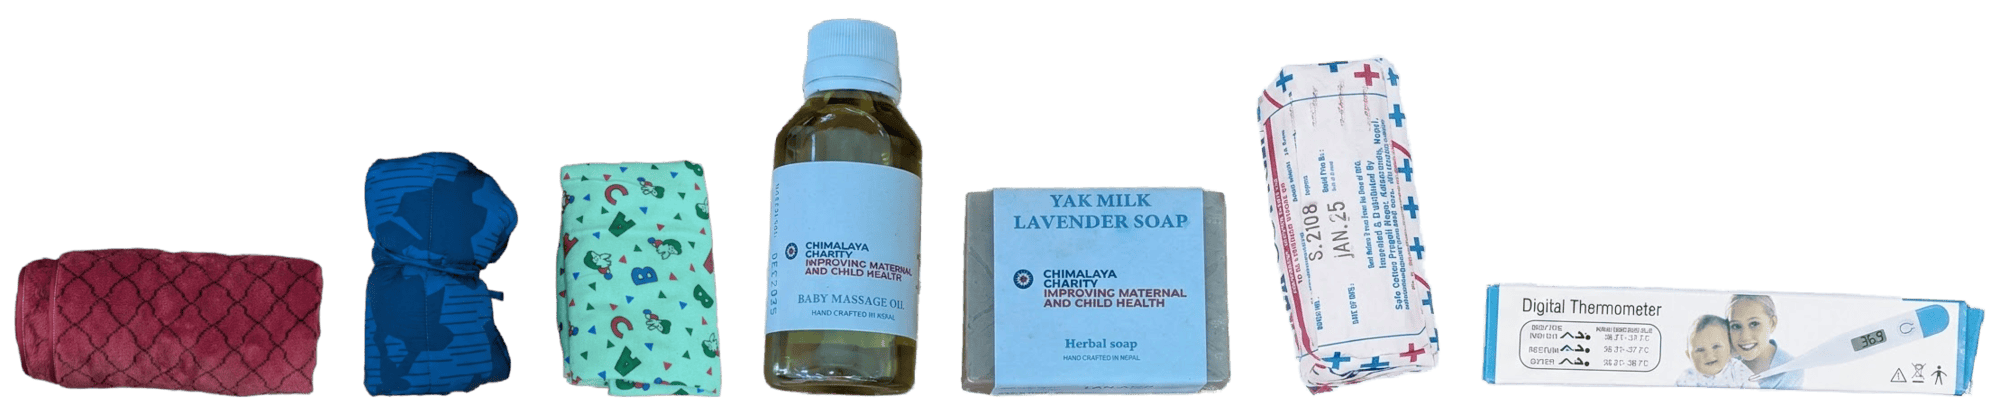
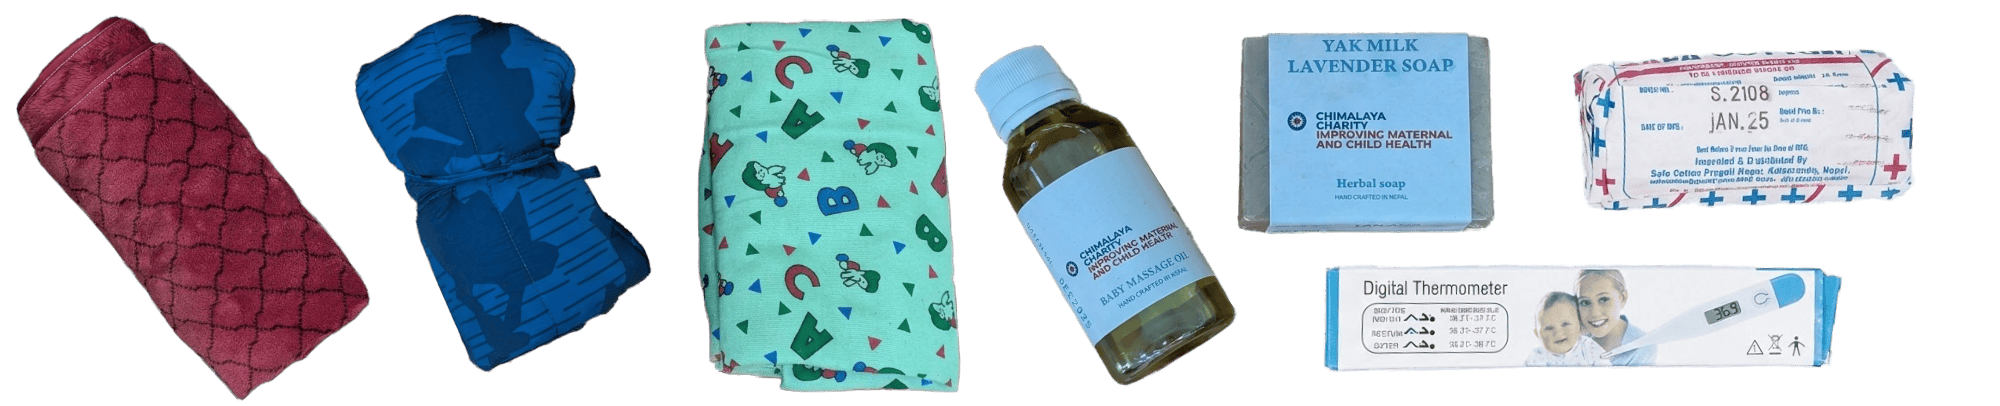
Use the updated bag contents photograph
Replaces the strip with the reworked row: cleaner cutouts, the textiles at a
sensible size, and the thermometer box tucked under the cotton wool. Same
2000x406 proportions, so it still runs full width on page three.

The new separated cutouts are named red_towel, changing_mat and
reusable_diapers, which corrects the document: those items were described as
a blanket and cloth nappies, guessed from the photographs.

diff --git a/documents/assets/originals/README.md b/documents/assets/originals/README.md
@@ -13,6 +13,10 @@ new.
 | `bag-contents-soap-and-oil.png` | yak milk soap and baby massage oil together |
 | `bag-contents-thermometer-and-cotton.png` | thermometer and cotton wool together |
 | `textiles-trimmed.png` | the textiles, cropped to their bounding box |
+| `red_towel.png` | separated, cropped |
+| `changing_mat.png` | separated, cropped |
+| `reusable_diapers.png` | separated, cropped |
+| `bag-contents-row.png` | all seven items in one wide row — the source for the strip in the document |
 | `baby-massage-oil.png` | separated, cropped |
 | `yak-milk-soap.png` | separated, cropped |
 | `cotton-wool.png` | separated, cropped |
@@ -21,6 +25,9 @@ new.
 All have a real alpha channel, so they drop onto any background. The four
 separated objects were split out of the grouped photographs by looking for
 gaps in the alpha profile, then cropped to their own bounding box.
+
+The textiles are a towel, a changing mat and reusable nappies — worth noting,
+since from the photographs alone the first two read as blankets.
 
 **Scale is not consistent between the grouped photographs.** The textiles were
 shot from further back than the other items, so at native pixel size a bar of
